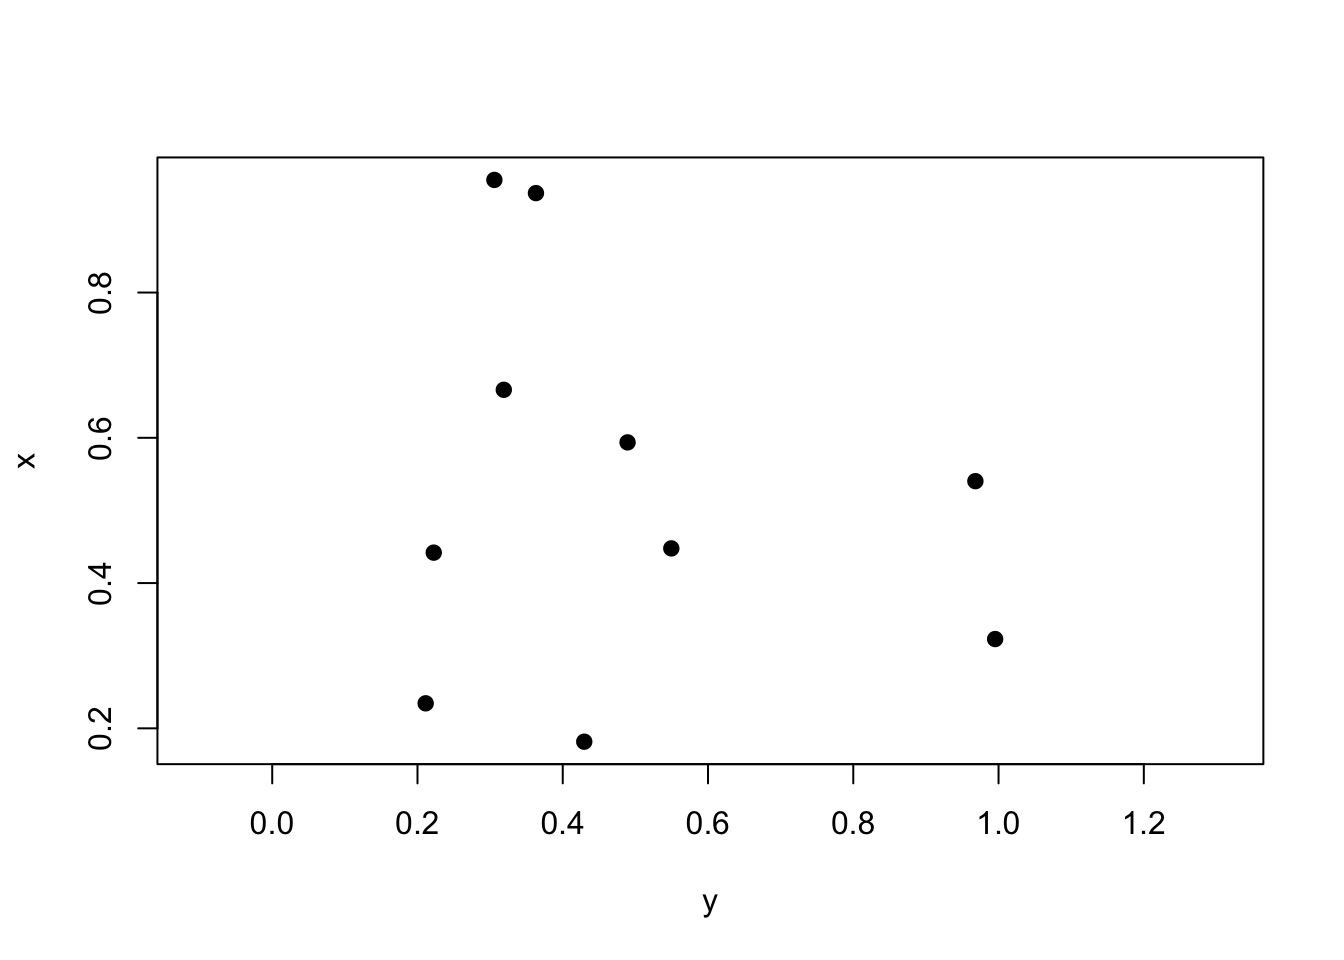
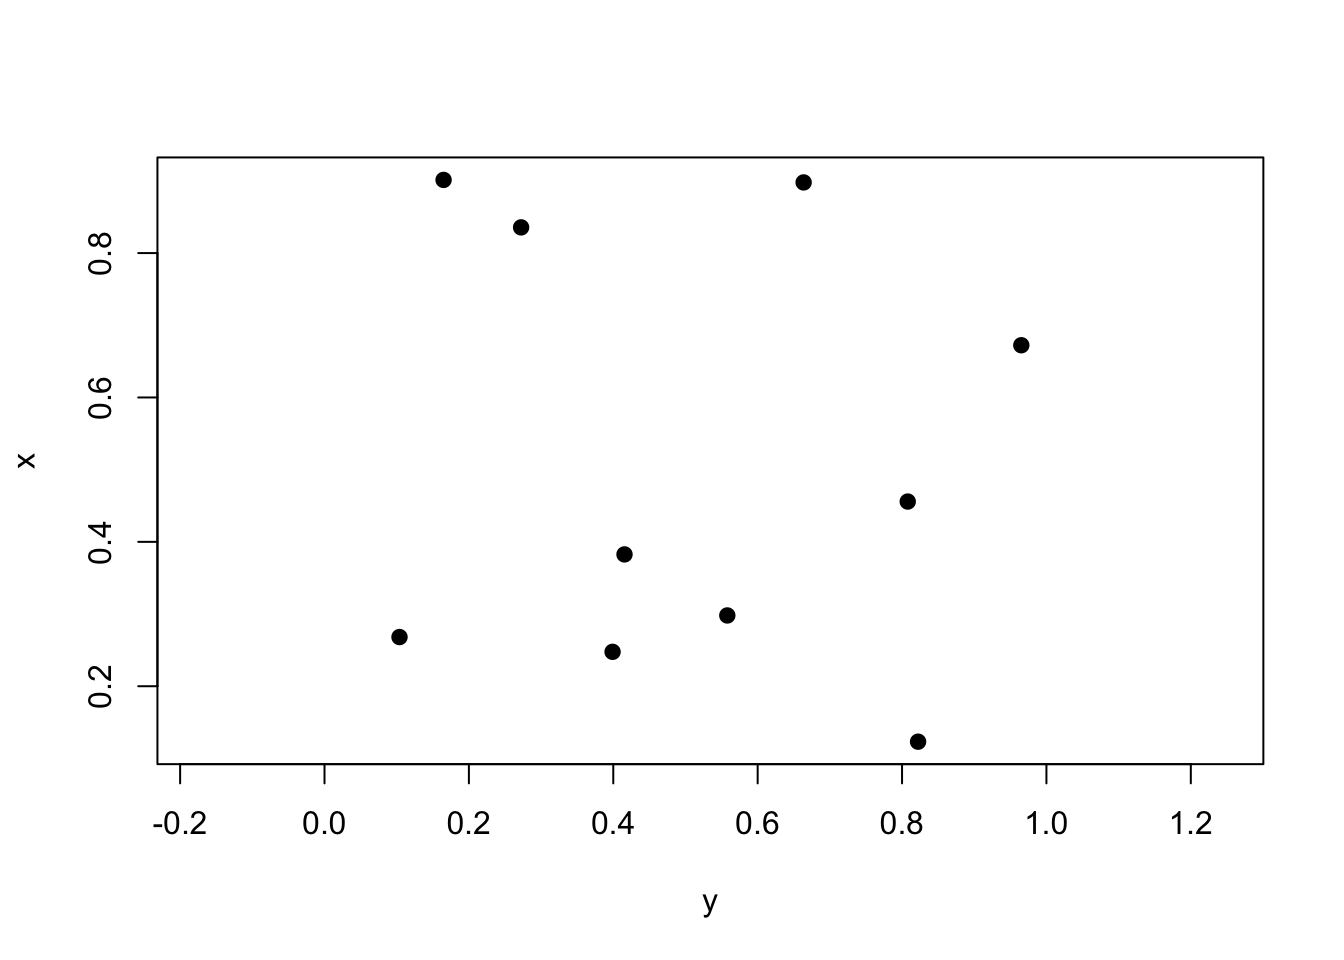
Updating webpage

diff --git a/docs/cor_reg.html b/docs/cor_reg.html
@@ -451,7 +451,7 @@ window.Quarto = {
 <div class="code-copy-outer-scaffold"><div class="sourceCode cell-code" id="cb11"><pre class="sourceCode r code-with-copy"><code class="sourceCode r"><span id="cb11-1"><a href="#cb11-1" aria-hidden="true" tabindex="-1"></a><span class="fu">cor</span>(y, x) <span class="sc">|&gt;</span> </span>
 <span id="cb11-2"><a href="#cb11-2" aria-hidden="true" tabindex="-1"></a>  <span class="fu">round</span>(<span class="dv">2</span>)</span></code></pre></div><button title="Copy to Clipboard" class="code-copy-button"><i class="bi"></i></button></div>
 <div class="cell-output cell-output-stdout">
-<pre><code>[1] -0.19</code></pre>
+<pre><code>[1] -0.11</code></pre>
 </div>
 </div>
 </section>
@@ -1048,8 +1048,8 @@ special_attack 0.48   0.36    0.31           1.00</code></pre>
   4 of 5: "key_crop_yields.csv"
   5 of 5: "land_use_vs_yield_change_in_cereal_production.csv"</code></pre>
 </div>
-<div class="code-copy-outer-scaffold"><div class="sourceCode cell-code" id="cb45"><pre class="sourceCode r code-with-copy"><code class="sourceCode r"><span id="cb45-1"><a href="#cb45-1" aria-hidden="true" tabindex="-1"></a>fertilizer <span class="ot">&lt;-</span> tuesdata<span class="sc">$</span>cereal_crop_yield_vs_fertilizer_application <span class="sc">|&gt;</span> </span>
-<span id="cb45-2"><a href="#cb45-2" aria-hidden="true" tabindex="-1"></a>  <span class="fu">na.omit</span>() <span class="sc">|&gt;</span> </span>
+<div class="code-copy-outer-scaffold"><div class="sourceCode cell-code" id="cb45"><pre class="sourceCode r code-with-copy"><code class="sourceCode r"><span id="cb45-1"><a href="#cb45-1" aria-hidden="true" tabindex="-1"></a>fertilizer <span class="ot">&lt;-</span> tuesdata<span class="sc">$</span>cereal_crop_yield_vs_fertilizer_application <span class="sc">|&gt;</span> <span class="fu">na.omit</span>() <span class="sc">|&gt;</span> </span>
+<span id="cb45-2"><a href="#cb45-2" aria-hidden="true" tabindex="-1"></a>  <span class="fu">as.data.frame</span>() <span class="sc">|&gt;</span> </span>
 <span id="cb45-3"><a href="#cb45-3" aria-hidden="true" tabindex="-1"></a>  <span class="fu">filter</span>(Entity <span class="sc">==</span> <span class="st">"United States"</span> <span class="sc">|</span> Entity <span class="sc">==</span> <span class="st">"Canada"</span> <span class="sc">|</span> Entity <span class="sc">==</span> <span class="st">"Mexico"</span>)</span></code></pre></div><button title="Copy to Clipboard" class="code-copy-button"><i class="bi"></i></button></div>
 </div>
 <div class="cell">
